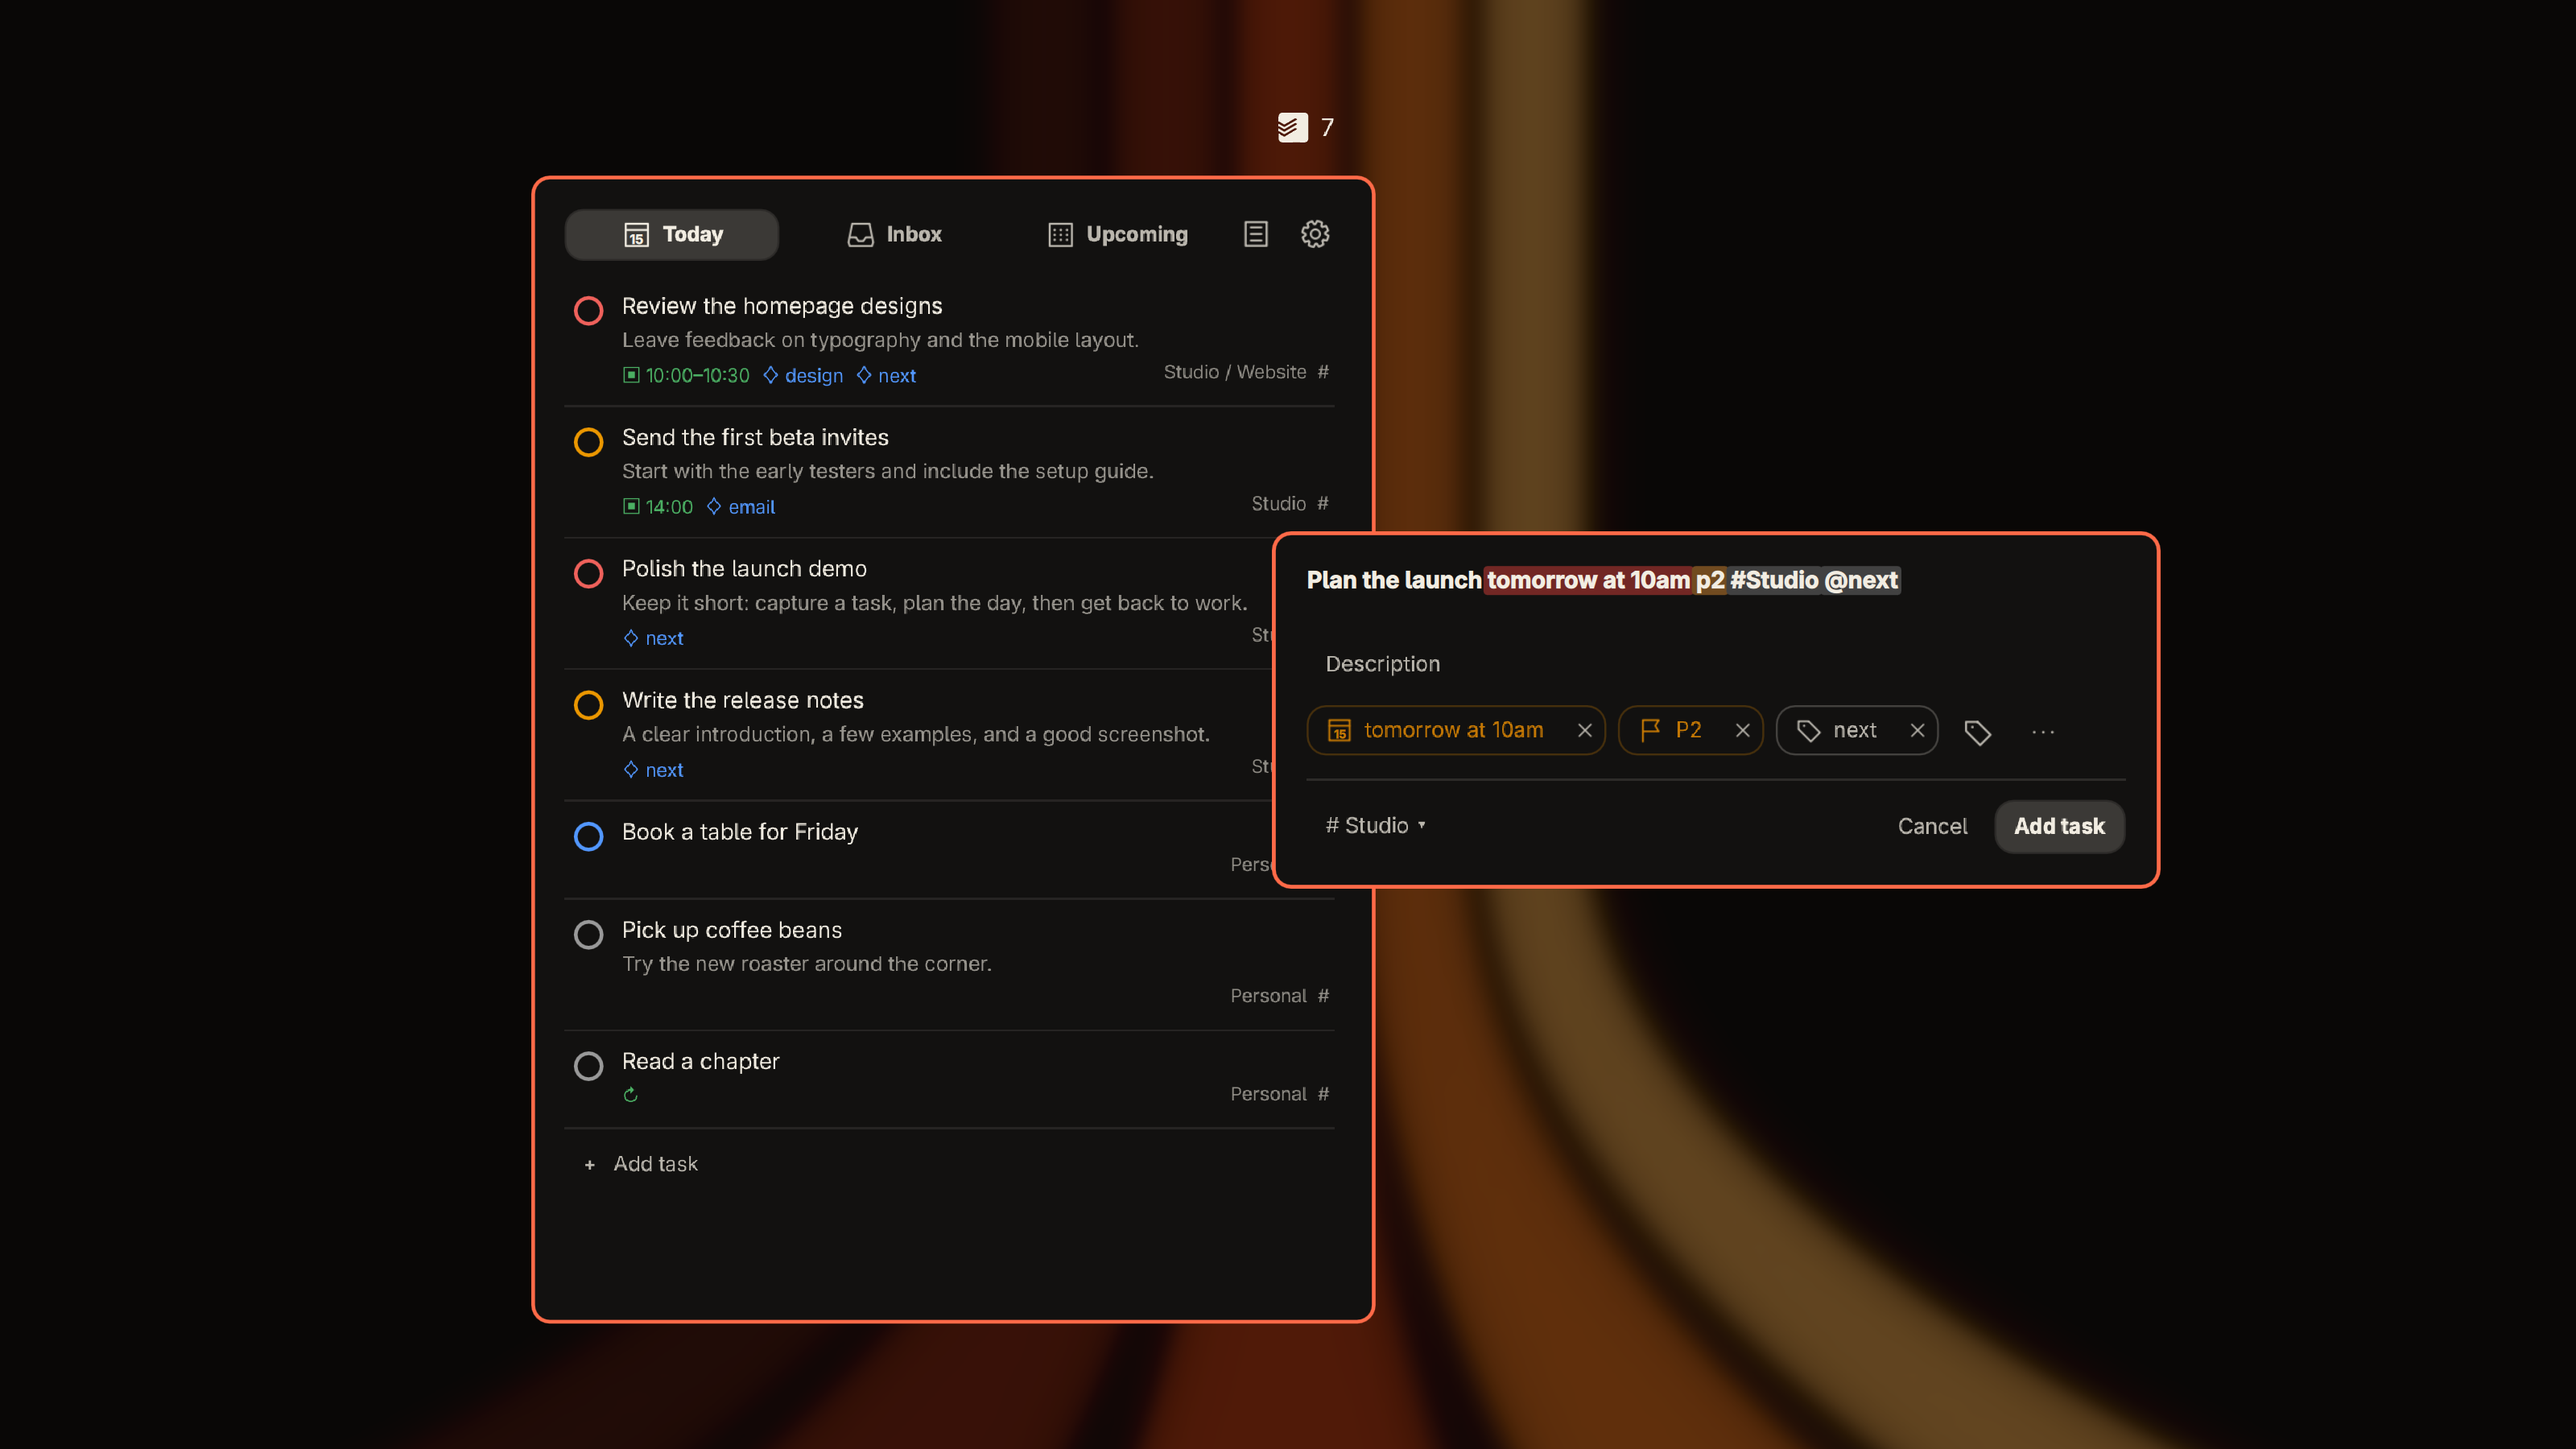
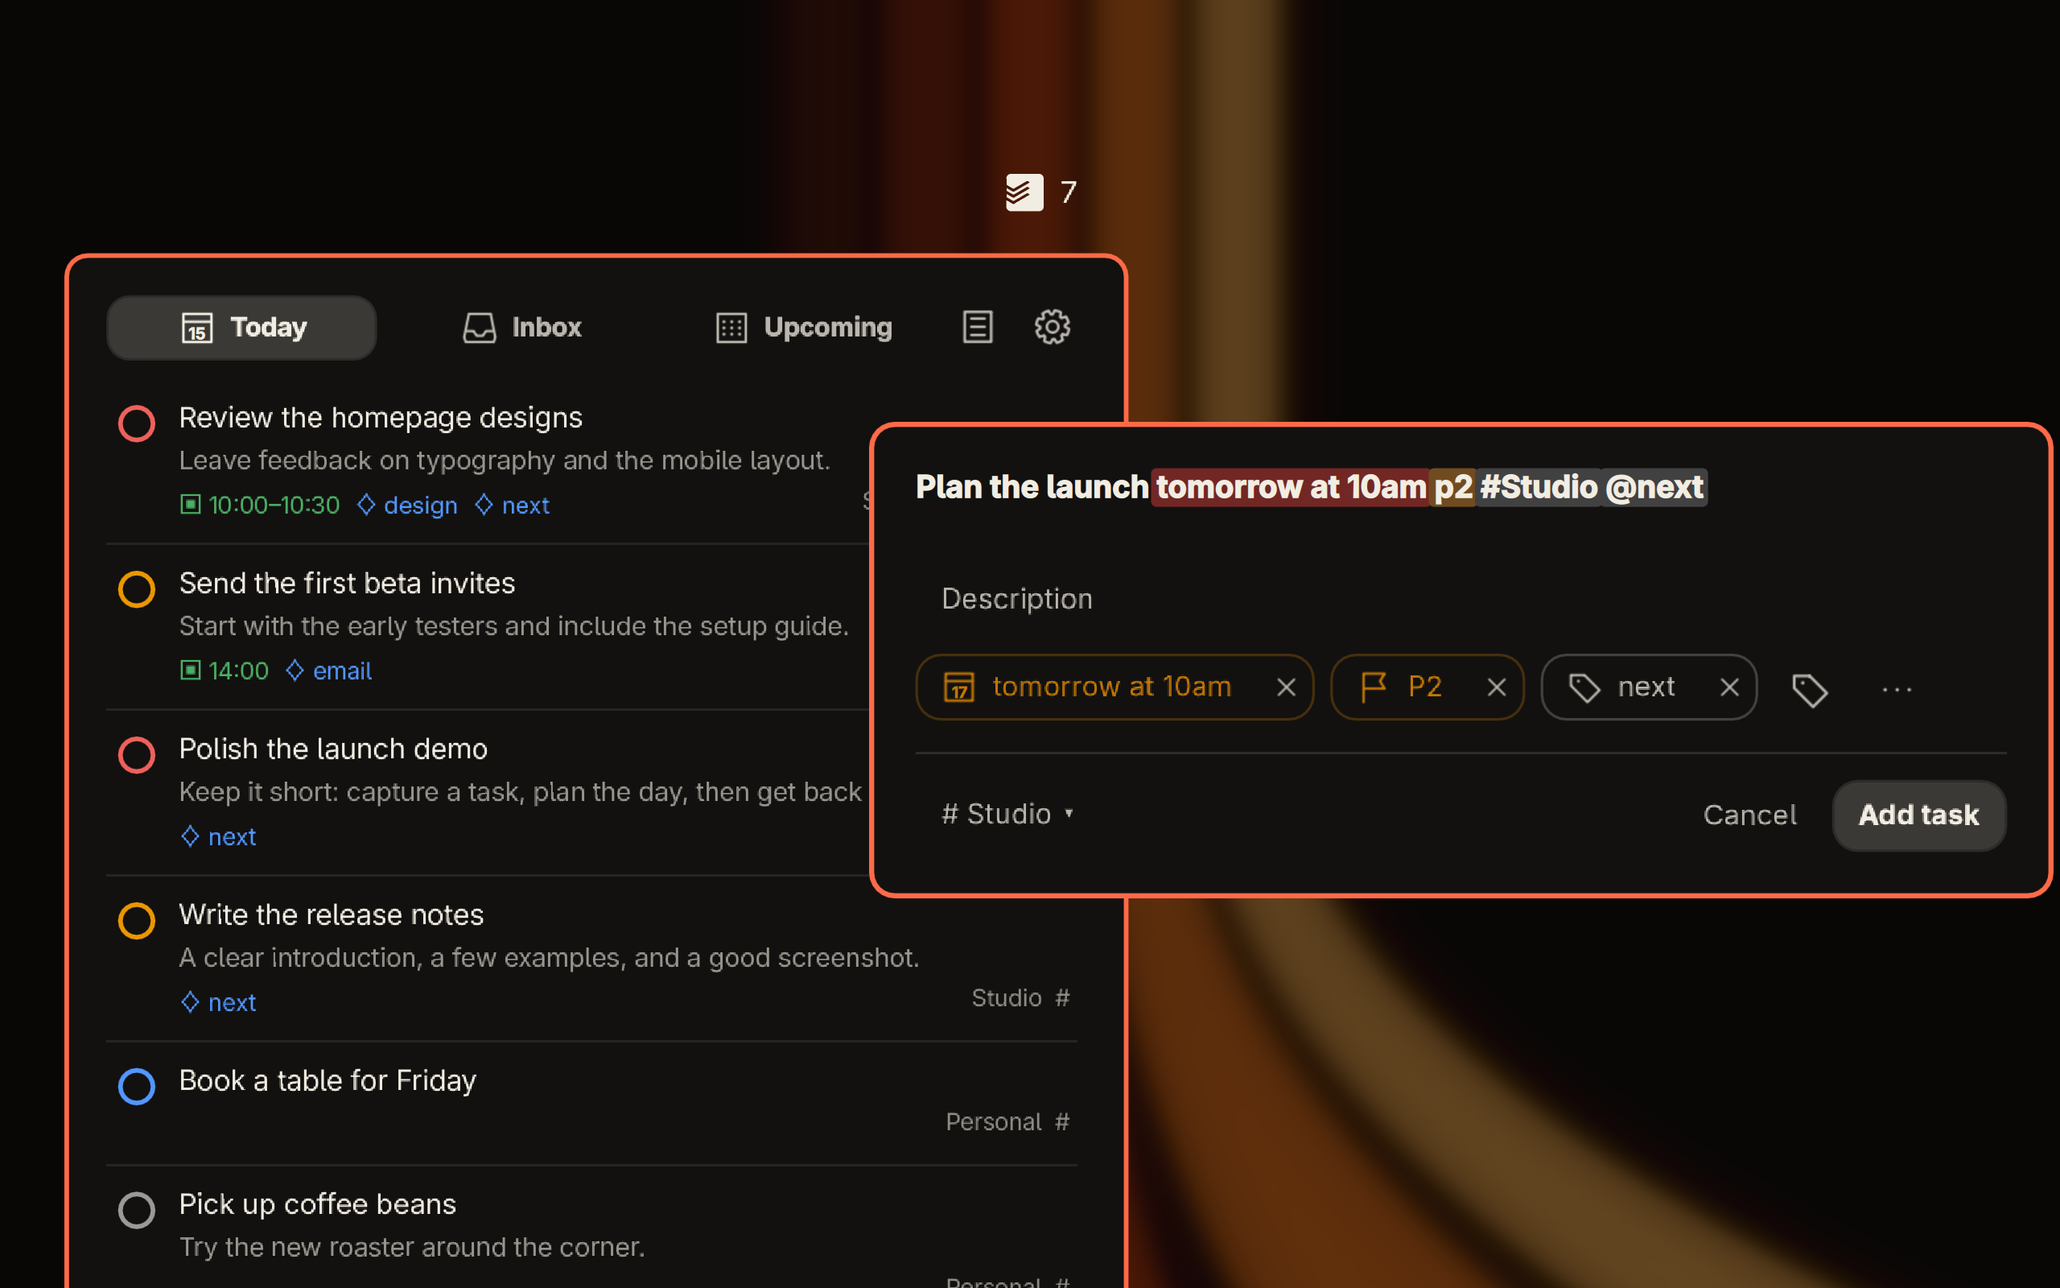
Zoom the marketplace preview in on the Today panel and Quick Add
The marketplace card shows only a wide strip from the middle of the
preview, and at the old size its text was too small to read. The preview
is now 2560 by 1600, with the Today panel and Quick Add about a third
larger. The Quick Add sentence with its recognised date, priority,
project and label, and the first four tasks, sit in that strip and in
the websites' 16:9 crop. The panel runs off the bottom edge.

diff --git a/tools/preview.qml b/tools/preview.qml
@@ -35,13 +35,16 @@ ShellRoot {
     FloatingWindow {
         id: window
         visible: true
-        implicitWidth: 1600; implicitHeight: 900
+        implicitWidth: 1280; implicitHeight: 800
         color: "#100c0b"
         Item {
         id: artwork
         anchors.fill: parent
         clip: true
         // Omarchy's ristretto wallpaper, blurred and dimmed under real panels.
+        // The marketplace card shows only a wide strip from the vertical
+        // middle, so the panels are large, with Quick Add and the first tasks
+        // in that strip.
         Image {
             id: wallpaper
             // Larger than the canvas, so the blur has no dark edges.
@@ -54,8 +57,8 @@ ShellRoot {
         Rectangle { anchors.fill: parent; color: "#100c0b"; opacity: 0.55 }
         Item {
             id: panelScene
-            x: 330; y: 70; width: 456; height: 654
-            scale: 1.15; transformOrigin: Item.TopLeft
+            x: 40; y: 108; width: 456; height: 654
+            scale: 1.45; transformOrigin: Item.TopLeft
             Row {
                 anchors.right: parent.right; anchors.rightMargin: 22
                 spacing: 7
@@ -72,9 +75,9 @@ ShellRoot {
         }
         Rectangle {
             id: previewCard
-            x: 790; y: 330
+            x: 540; y: 262
             width: 460; height: previewComposer.implicitHeight + 36
-            scale: 1.2; transformOrigin: Item.TopLeft
+            scale: 1.6; transformOrigin: Item.TopLeft
             color: Color.popups.background; radius: Style.cornerRadius
             border.color: Color.popups.border; border.width: 2
             Tasks.Composer {
